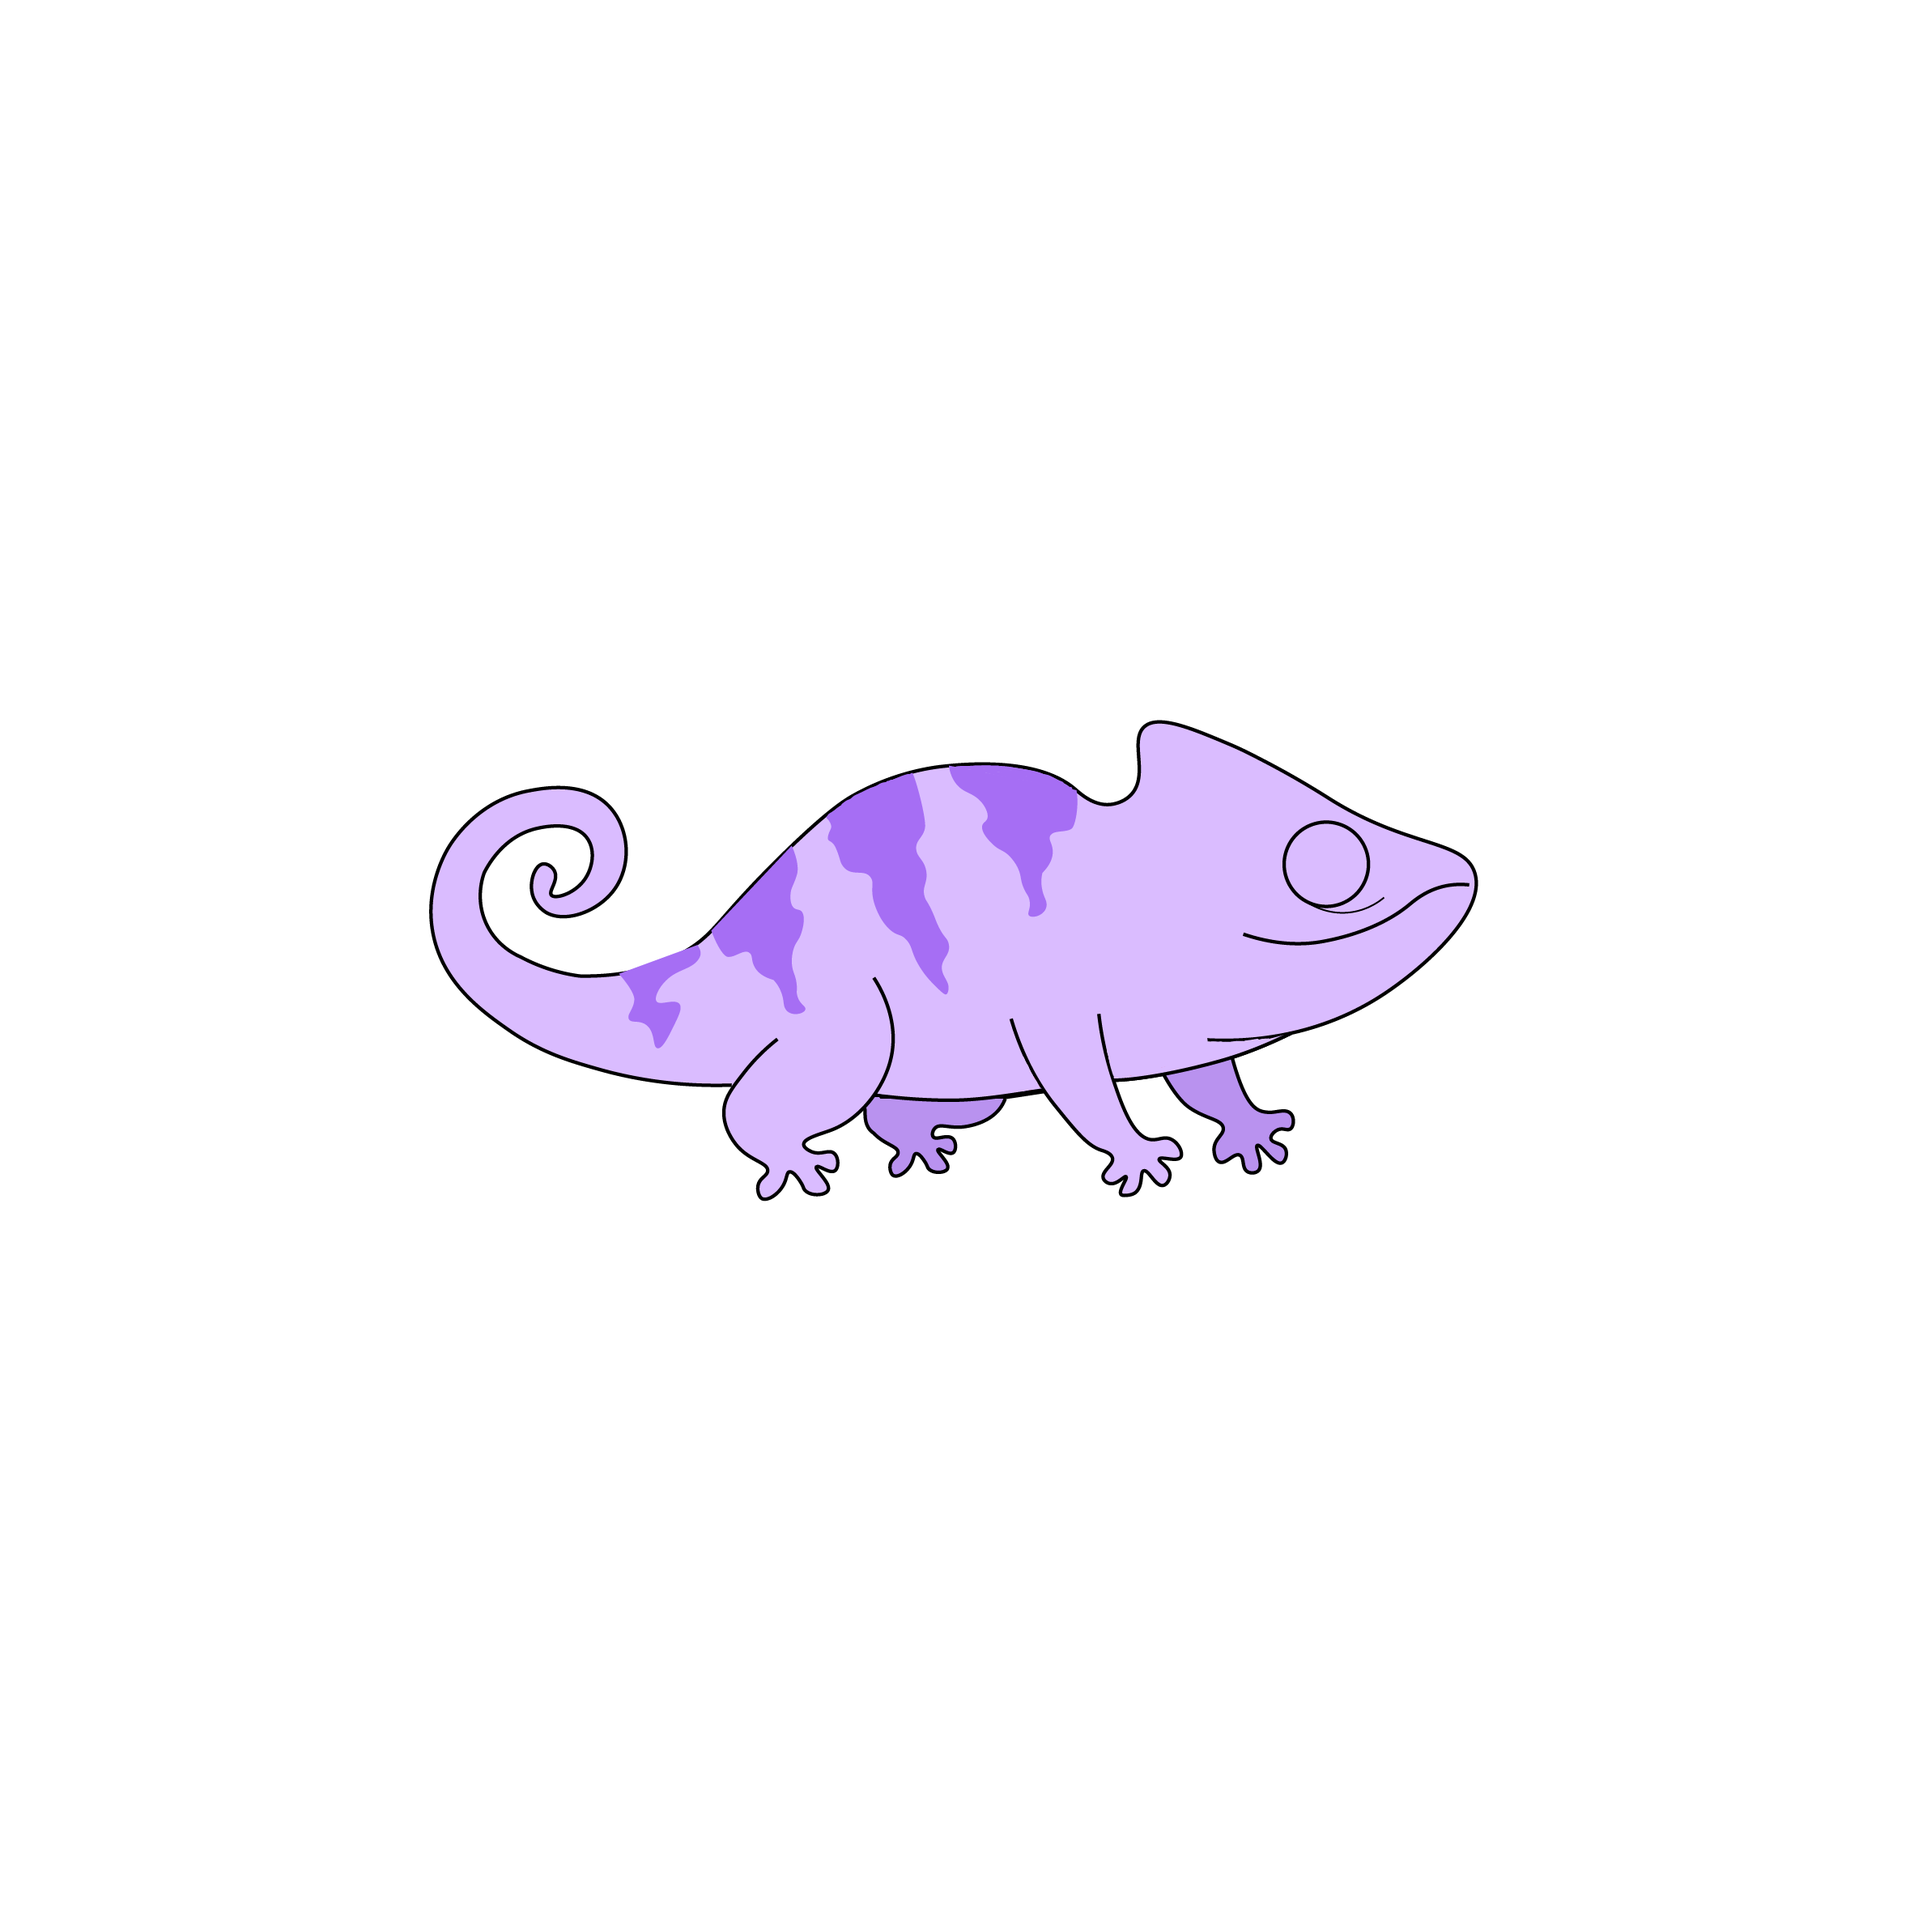
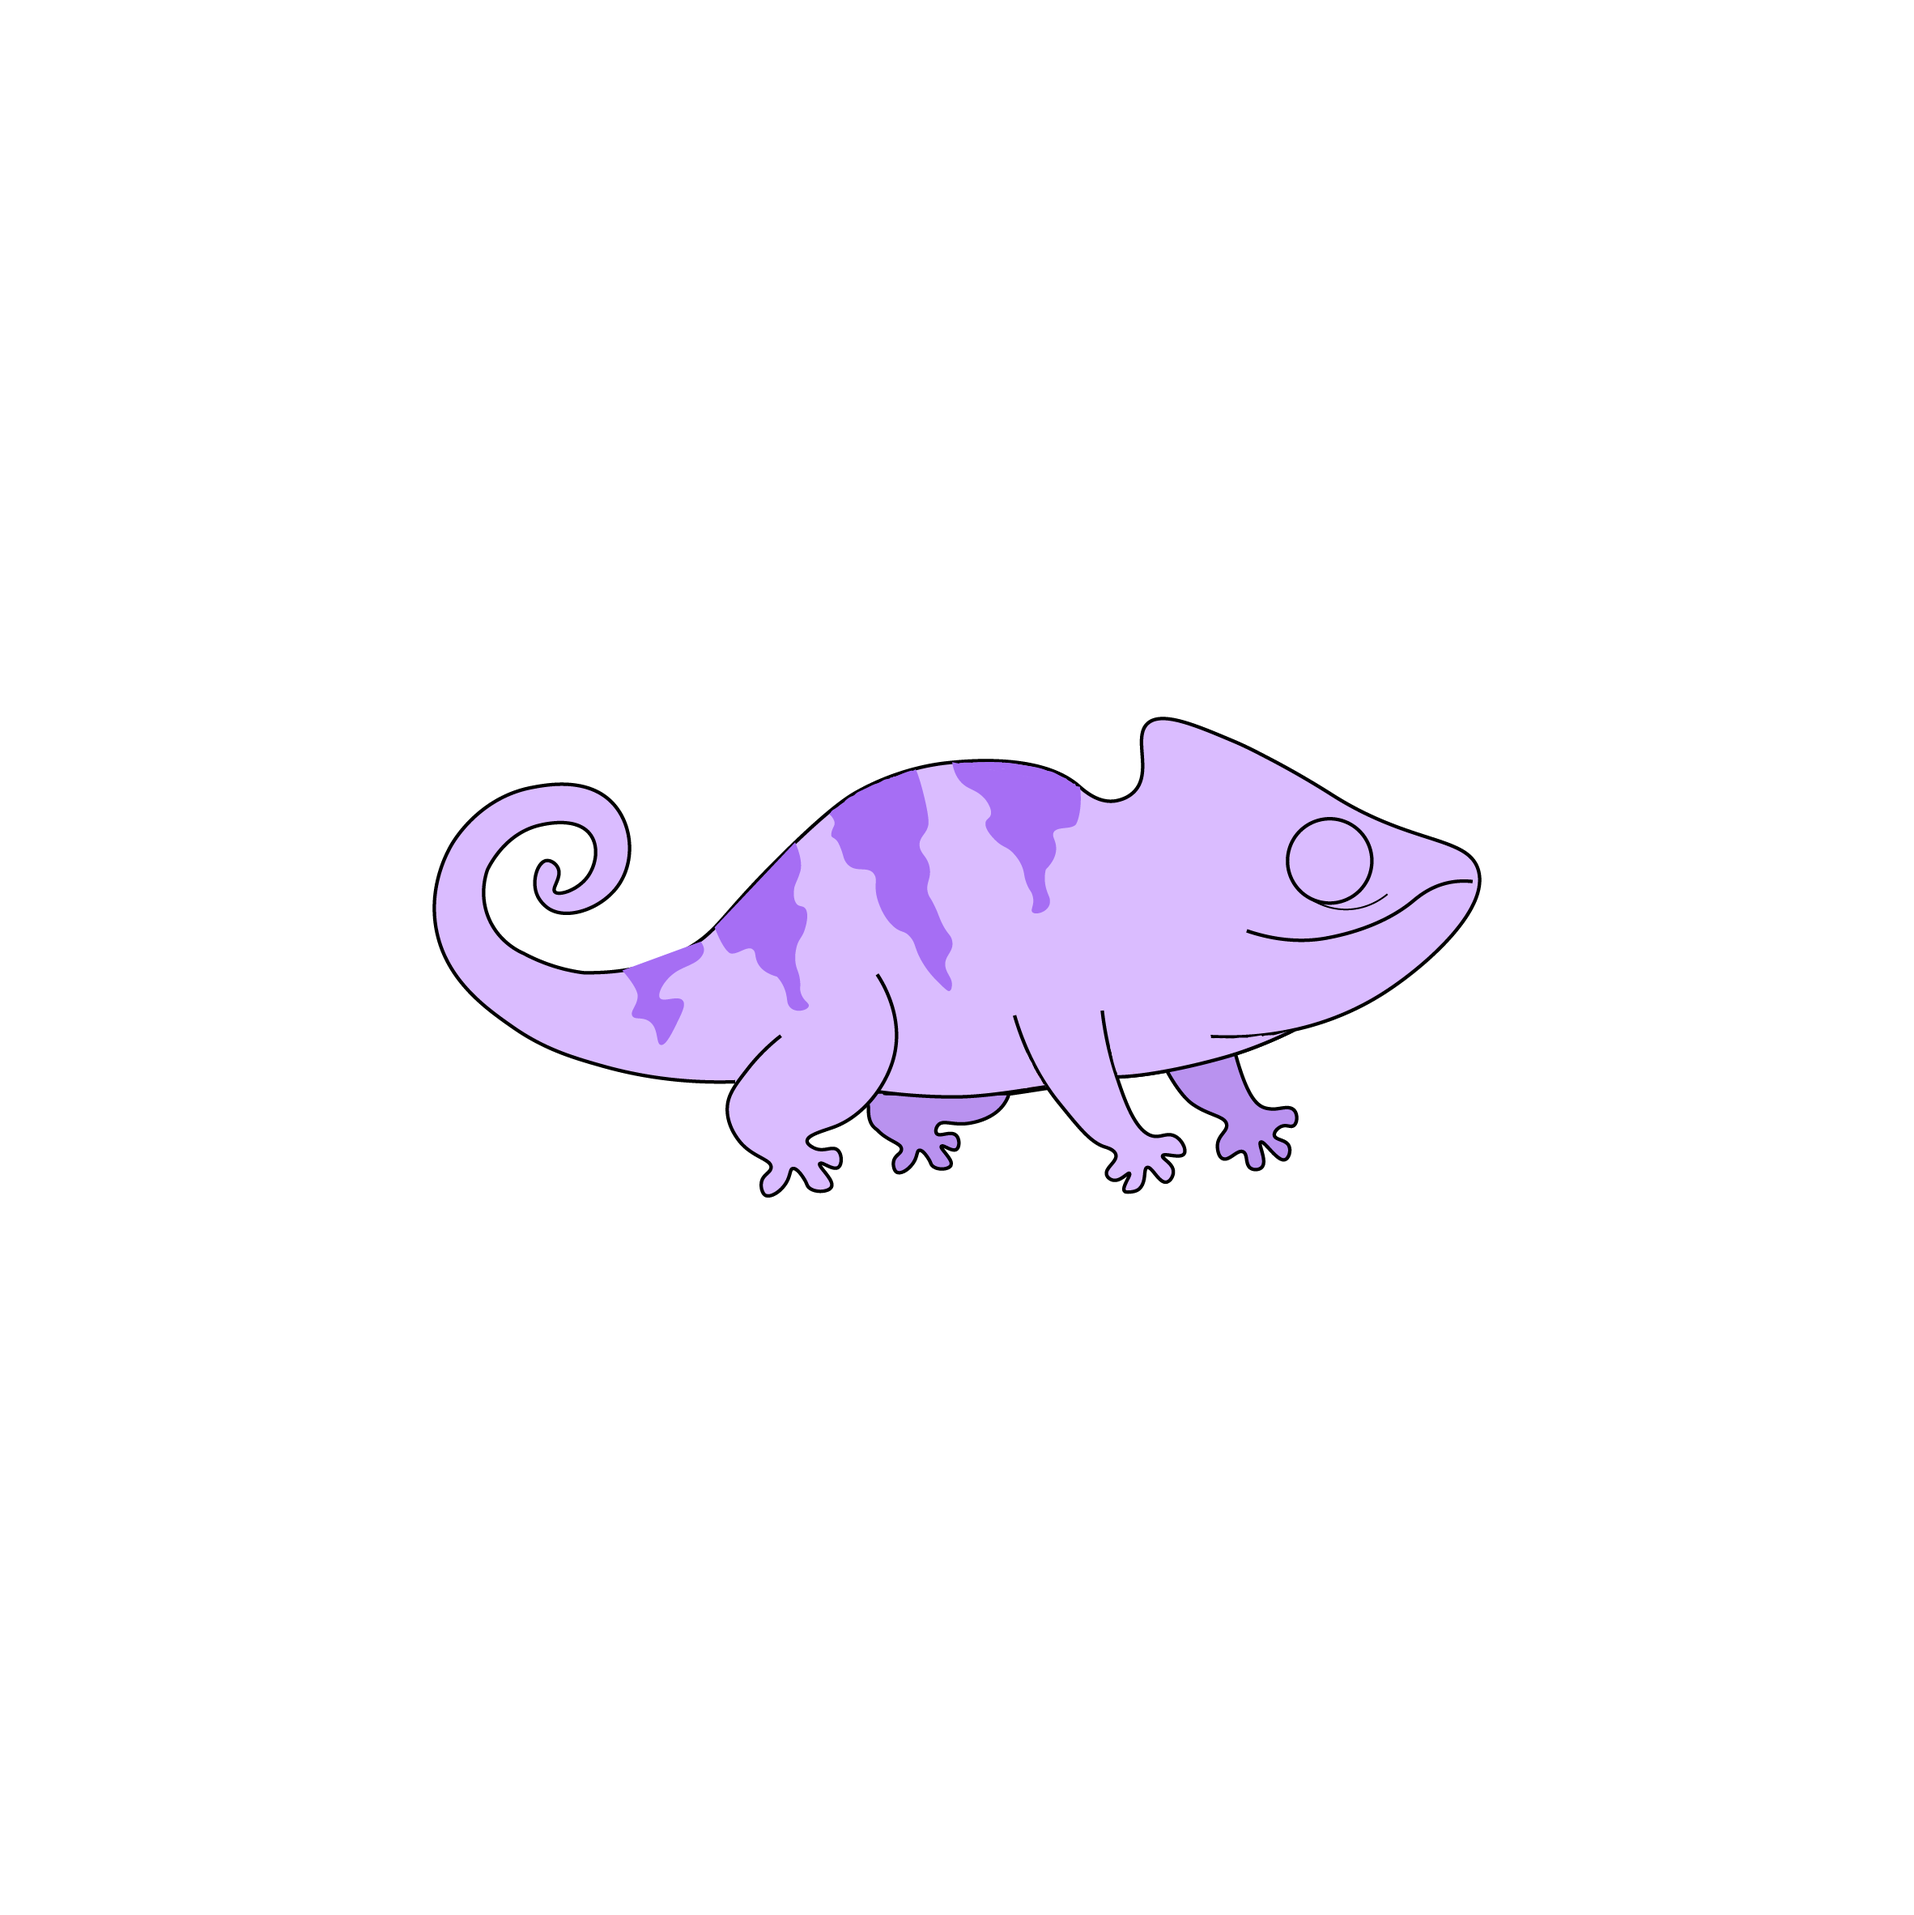
Two updates (read desc)
- added a display of text with instructions in the blank space to show that there will be more information if the user clicks any of the noise buttons
- updated chameleons to be in the same position so there isn't a change in size in any coloured form of the chameleon.

diff --git a/pick_your_colour.html b/pick_your_colour.html
@@ -78,11 +78,28 @@
       brownSound = loadSound("Audio/Brown Noise.mp3");
     }
     
+   // showing a "please click button to display info" text 
+    function displayMoreInfoText() {
+     fill(255);
+     textSize(32); 
+    textAlign(CENTER, BOTTOM); 
+    let textX = 120 + 600 / 2; // took info from the psd text to make sure it's aligned right
+    let textY = 1000; // y position aligned with the header text
+    textFont('Gill Sans MT');
+    text("Please click any noise button to display more information!", textX, textY);
+}
+    //  hide initial text
+    function hideMoreInfoText() {
+      clear(); // Clear the canvas
+    }
 
     // change chameleon image based on mouse click
     function changeChameleon(chameleonImage) {
       selectedChameleon = chameleonImage;
     }
+    
+
+
     
     function setup() {
       // 1080, 3000
@@ -90,6 +107,8 @@
       canvas.parent('chooseNoiseContainer'); // parenting to add anywhere on the page
       // green cham as initial
       selectedChameleon = greenCham;
+      displayMoreInfoText(); // Call the function to display initial text
+
     
       // Define button dimensions and position variables
       let buttonHeight = 30;
@@ -97,6 +116,11 @@
       // 2370
       let yPosition = height - 870; // y position
     
+
+
+
+
+      
       let whiteButton = createButton('White Noise'); // white noise button
 whiteButton.position(100, yPosition);
 whiteButton.class('whiteNoiseButton'); // connecting to CSS
@@ -111,6 +135,7 @@ whiteButton.mouseClicked(function() { // if the white noise button is clicked
   changeChameleon(whiteCham); // show the white chameleon image
   showWhitePSD(); // showing whitePSD on white mouse clicked
 });
+
 
 // Showing the White Noise PSD on button click
 function showWhitePSD() {
